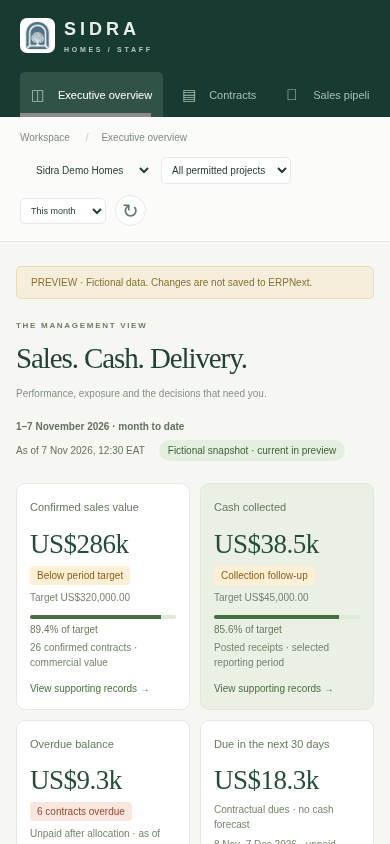
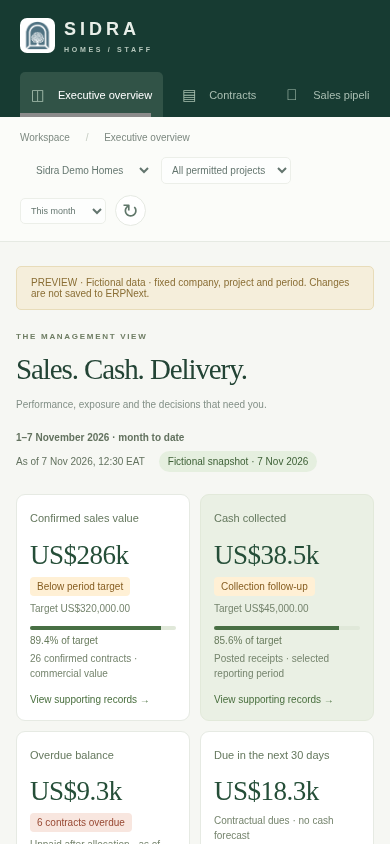
feat(staff): finish executive evidence and browser coverage

diff --git a/clients/staff/web/executive-demo.js b/clients/staff/web/executive-demo.js
@@ -1,31 +1,42 @@
 // Synthetic management snapshot; all totals and percentages are fixture values.
 const report = (path, columns, rows) => ({path, preview: {columns, rows}});
-const sales = report('/app/sidra-sale-contract?company=demo&status=Confirmed', ['Contract', 'Property', 'Agreed value'], [
-  ['EXT-DEMO-001', 'Demo Plot A-012', 'US$14,000.00'], ['EXT-DEMO-003', 'Demo Plot B-004', 'US$11,000.00'],
-]);
-const cash = report('/app/payment-entry?company=demo&docstatus=1', ['Receipt', 'Contract', 'Received'], [
-  ['DEMO-PAY-001', 'EXT-DEMO-001', 'US$1,250.00'], ['DEMO-PAY-002', 'EXT-DEMO-003', 'US$750.00'],
-]);
+const pad = value => String(value).padStart(3, '0');
+// Complete synthetic cohorts, not partial samples presented as reconciled totals.
+// Record generation here is fixture scaffolding, never live financial logic.
+const sales = report('/app/sidra-sale-contract?company=demo&status=Confirmed', ['Contract', 'Property', 'Agreed value'],
+  Array.from({length: 26}, (_, i) => [`EXT-DEMO-${101 + i}`, `Demo Plot C-${101 + i}`, 'US$11,000.00']));
+const cash = report('/app/payment-entry?company=demo&docstatus=1', ['Receipt', 'Contract', 'Received'],
+  Array.from({length: 26}, (_, i) => [`DEMO-PAY-${pad(i + 1)}`, `EXT-DEMO-${101 + i}`, ['US$1,250.00', 'US$750.00', 'US$2,000.00'][i] || 'US$1,500.00']));
 const aging = report('/app/query-report/Demo%20Contract%20Aging?company=demo', ['Contract', 'Age', 'Unpaid'], [
-  ['EXT-DEMO-004', '1–30 days', 'US$4,250.00'], ['EXT-DEMO-005', '31–60 days', 'US$3,000.00'],
+  ['EXT-DEMO-004', '1–30 days', 'US$4,250.00'], ['EXT-DEMO-005', '31–60 days', 'US$2,000.00'],
+  ['EXT-DEMO-006', '31–60 days', 'US$1,000.00'], ['EXT-DEMO-007', '61–90 days', 'US$1,250.00'],
+  ['EXT-DEMO-008', '61–90 days', 'US$250.00'], ['EXT-DEMO-009', '90+ days', 'US$500.00'],
 ]);
+const majorAccounts = report('/app/query-report/Demo%20Contract%20Aging?company=demo&management_review=1', aging.preview.columns,
+  [aging.preview.rows[0], ...aging.preview.rows.slice(3)]);
 const dues = report('/app/query-report/Demo%20Contract%20Dues?company=demo', ['Contract', 'Due date', 'Agreed due'], [
-  ['EXT-DEMO-001', '10 Nov 2026', 'US$1,250.00'], ['EXT-DEMO-002', '15 Nov 2026', 'US$2,500.00'],
+  ['EXT-DEMO-001', '10 Nov 2026', 'US$1,250.00'], ['EXT-DEMO-101', '15 Nov 2026', 'US$2,500.00'],
+  ['EXT-DEMO-003', '21 Nov 2026', 'US$750.00'], ['EXT-DEMO-102', '23 Nov 2026', 'US$3,500.00'],
+  ['EXT-DEMO-103', '25 Nov 2026', 'US$2,000.00'], ['EXT-DEMO-104', '28 Nov 2026', 'US$3,000.00'],
+  ['EXT-DEMO-105', '1 Dec 2026', 'US$2,750.00'], ['EXT-DEMO-106', '7 Dec 2026', 'US$2,500.00'],
 ]);
 const jobs = report('/app/sidra-construction-job?company=demo', ['Job', 'Schedule status', 'Milestone'], [
   ['Demo Villa 01', 'On schedule', 'Foundation inspection'], ['Demo House 02', 'At risk', 'Roofing review'],
+  ['Demo House 03', 'Delayed', 'Site recovery review'],
+  ...Array.from({length: 6}, (_, i) => [`Demo Villa ${i + 4}`, 'On schedule', 'Planned site review']),
 ]);
-const units = report('/app/sidra-unit?status=Available', ['Unit', 'Status', 'Asking price'], [
-  ['Demo Plot A-018', 'Available', 'US$11,000.00'], ['Demo Plot B-008', 'Available', 'US$11,000.00'],
-]);
-const reservations = report('/app/sidra-reservation?company=demo', ['Reservation', 'Plot', 'Owner'], [
-  ['DEMO-RES-003', 'Demo Plot C-003', 'Demo Sales Manager'],
-]);
+const unitNames = ['Demo Plot A-018', 'Demo Plot B-008', ...Array.from({length: 40}, (_, i) => `Demo Plot D-${pad(i + 1)}`)];
+const units = report('/app/sidra-unit?company=demo&status=Available', ['Unit', 'Status', 'Asking price'],
+  unitNames.map(name => [name, 'Available', 'US$11,000.00']));
+const inventoryAge = report('/app/query-report/Demo%20Inventory%20Age?company=demo', ['Unit', 'Days available'],
+  unitNames.map((name, i) => [name, String([45, 81][i] || 63)]));
+const reservations = report('/app/sidra-reservation?company=demo', ['Reservation', 'Plot', 'Owner'],
+  Array.from({length: 3}, (_, i) => [`DEMO-RES-${pad(i + 1)}`, `Demo Plot R-${pad(i + 1)}`, 'Demo Sales Manager']));
 
 export default {
   available: true,
   period_label: '1–7 November 2026 · month to date',
-  freshness: {status: 'fresh', label: 'Fictional snapshot · current in preview'},
+  freshness: {status: 'fresh', label: 'Fictional snapshot · 7 Nov 2026'},
   metrics: {
     sales_value: {available: true, value: '286000', target: '320000', attainment_percent: 89.4, status: 'attention', status_label: 'Below period target', detail: '26 confirmed contracts · commercial value', drilldown: sales},
     cash_collected: {available: true, value: '38500', target: '45000', attainment_percent: 85.6, status: 'attention', status_label: 'Collection follow-up', detail: 'Posted receipts · selected reporting period', drilldown: cash},
@@ -40,14 +51,14 @@ export default {
     {label: 'Oct', sales_value: '270000', received: '41250'}, {label: 'Nov*', sales_value: '286000', received: '38500'},
   ]},
   decisions: {available: true, total: 3, items: [
-    {id: 'DEMO-REVIEW-001', priority: 'critical', priority_label: 'Urgent collection', reference: 'EXT-DEMO-004', title: 'Agree a recovery plan for an overdue buyer', impact: {amount: '4250', description: 'unpaid contractual balance'}, owner: 'Demo Finance Lead', due_date: '2026-11-09', next_action: 'Review collection history and assign the next follow-up.', drilldown: report('/app/sidra-sale-contract/DEMO-SSC-004', ['Case', 'Owner', 'Next action'], [['EXT-DEMO-004', 'Demo Finance Lead', 'Review collection history and agree follow-up']])},
+    {id: 'DEMO-REVIEW-001', priority: 'critical', priority_label: 'Urgent collection', reference: 'EXT-DEMO-004', title: 'Agree a recovery plan for an overdue buyer', impact: {amount: '4250', description: 'unpaid contractual balance'}, owner: 'Demo Finance Lead', due_date: '2026-11-09', next_action: 'Review collection history and assign the next follow-up.', drilldown: report('/app/sidra-sale-contract/DEMO-SSC-004', ['Contract', 'Unpaid', 'Owner', 'Next action'], [['EXT-DEMO-004', 'US$4,250.00', 'Demo Finance Lead', 'Review collection history and assign the next follow-up.']])},
     {id: 'DEMO-REVIEW-002', priority: 'attention', priority_label: 'Delivery at risk', reference: 'DEMO-SITE-002', title: 'Resolve the roofing milestone resource gap', impact: {description: 'Completion date at risk · cost impact not yet quantified'}, owner: 'Demo Project Manager', due_date: '2026-11-08', next_action: 'Confirm the recovery programme and responsible site lead.', drilldown: report('/app/sidra-construction-job/DEMO-SITE-002', ['Job', 'Milestone', 'Review needed'], [['Demo House 02', 'Roofing review', 'Resource recovery programme']])},
     {id: 'DEMO-REVIEW-003', priority: 'attention', priority_label: 'Capacity held', reference: '3 reservations', title: 'Review reservations past their follow-up date', impact: {description: '3 plots remain reserved · no automatic release'}, owner: 'Demo Sales Manager', due_date: '2026-11-10', next_action: 'Check each reservation and recommend the next permitted action.', drilldown: reservations},
   ]},
   exposure: {available: true, items: [
     {label: 'Cancelled sales', available: true, value: 2, kind: 'count', detail: 'Selected period · commercial cancellations', drilldown: report('/app/sidra-sale-contract?status=Cancelled', ['Contract', 'Status'], [['EXT-DEMO-090', 'Cancelled'], ['EXT-DEMO-091', 'Cancelled']])},
     {label: 'Reservations needing review', available: true, value: 3, kind: 'count', detail: 'Past their agreed follow-up date', drilldown: reservations},
-    {label: 'Available inventory age', available: true, value: 63, kind: 'count', detail: 'Median days available · server-defined age basis', drilldown: report('/app/query-report/Demo%20Inventory%20Age?company=demo', ['Unit', 'Days available'], [['Demo Plot A-018', '45'], ['Demo Plot B-008', '81']])},
-    {label: 'Major overdue accounts', available: true, value: '6250', kind: 'money', detail: '4 accounts under management review', drilldown: aging},
+    {label: 'Available inventory age', available: true, value: 63, kind: 'count', detail: 'Median days available · server-defined age basis', drilldown: inventoryAge},
+    {label: 'Major overdue accounts', available: true, value: '6250', kind: 'money', detail: '4 accounts under management review', drilldown: majorAccounts},
   ]},
 };

diff --git a/clients/staff/web/executive.js b/clients/staff/web/executive.js
@@ -38,13 +38,13 @@ export function renderExecutive(data, {el, empty, preview}) {
   const currency = data?.currency || 'USD';
   const usable = executive?.available === true;
   const section = name => usable ? executive[name] : null;
-  const format = (value, kind = 'money') => value == null ? '—' : kind === 'money' ? compactMoney(value, currency) : String(value);
+  const format = (value, kind = 'money') => !numeric(value) ? '—' : kind === 'money' ? compactMoney(value, currency) : String(value);
   const stateClass = status => ['on_track', 'attention', 'critical'].includes(status) ? status : 'neutral';
 
   function openExample(drilldown, title) {
     const sample = drilldown.preview;
     $('evidence-title').textContent = title;
-    $('evidence-note').textContent = 'Fictional example selection. The live dashboard opens a permission-filtered ERPNext report.';
+    $('evidence-note').textContent = 'Complete fictional supporting cohort for this fixed preview. Live records require a permission-filtered ERPNext report.';
     $('evidence-body').replaceChildren(el('table', {}, [
       el('thead', {}, el('tr', {}, sample.columns.map(label => el('th', {}, label)))),
       el('tbody', {}, sample.rows.map(row => el('tr', {}, row.map(value => el('td', {}, value))))),
@@ -74,10 +74,10 @@ export function renderExecutive(data, {el, empty, preview}) {
         el('small', {class: 'target-caption'}, `${card.attainment_percent}% of target`));
       }
     }
-    if (card.available && card.id === 'available_units') children.push(el('div', {class: 'metric-sub'}, card.asking_value == null ? 'Asking value unavailable' : format(card.asking_value) + ' asking value'));
+    if (card.available && card.id === 'available_units') children.push(el('div', {class: 'metric-sub'}, !numeric(card.asking_value) ? 'Asking value unavailable' : format(card.asking_value) + ' asking value'));
     if (card.available && card.id === 'due_next_30_days') {
       const expected = card.expected_receipts;
-      children.push(el('div', {class: 'metric-sub'}, expected?.available && expected.value != null ? 'Expected receipts ' + format(expected.value) : 'Contractual dues · no cash forecast'));
+      children.push(el('div', {class: 'metric-sub'}, expected?.available === true && numeric(expected.value) ? 'Expected receipts ' + format(expected.value) : 'Contractual dues · no cash forecast'));
     }
     children.push(el('div', {class: 'metric-sub'}, card.available ? card.detail : card.reason));
     if (card.available && (preview && card.drilldown?.preview || reportPath(card.drilldown?.path))) children.push(el('span', {class: 'records-hint'}, 'View supporting records →'));
@@ -94,7 +94,7 @@ export function renderExecutive(data, {el, empty, preview}) {
 
   const trends = section('trends');
   $('trend-range').textContent = trends?.period_label || 'Monthly';
-  const months = trends?.available && Array.isArray(trends.months) ? trends.months : [];
+  const months = trends?.available === true && Array.isArray(trends.months) ? trends.months : [];
   const hasNumber = numeric;
   const hasTrend = months.some(month => hasNumber(month.sales_value) || hasNumber(month.received));
   if (!hasTrend) $('executive-trend').replaceChildren(empty(trends?.reason || 'Monthly sales and collection reporting is not connected.'));
@@ -105,13 +105,13 @@ export function renderExecutive(data, {el, empty, preview}) {
         hasNumber(month[key]) ? el('span', {class: 'trend-bar ' + style + (Number(month[key]) < 0 ? ' negative' : ''), style: `height:${Math.max(1, Math.abs(Number(month[key])) / scale * 138)}px`, title: `${month.label}: ${money(month[key], currency)}`}) : el('span', {class: 'trend-missing', title: 'Unavailable'}, '—'))), el('span', {class: 'trend-label'}, month.label)])));
     $('executive-trend').replaceChildren(chart, el('details', {class: 'trend-values'}, [el('summary', {}, 'View exact monthly values'),
       el('div', {class: 'table-wrap'}, el('table', {}, [el('thead', {}, el('tr', {}, ['Month', 'Confirmed sales', 'Cash collected'].map(label => el('th', {}, label)))),
-        el('tbody', {}, months.map(month => el('tr', {}, [month.label, money(month.sales_value, currency), money(month.received, currency)].map(value => el('td', {}, value)))))]))]));
+        el('tbody', {}, months.map(month => el('tr', {}, [month.label, numeric(month.sales_value) ? money(month.sales_value, currency) : '—', numeric(month.received) ? money(month.received, currency) : '—'].map(value => el('td', {}, value)))))]))]));
   }
 
   const decisions = section('decisions');
   $('decision-count').textContent = decisions?.available && decisions.total != null ? `${decisions.total} open` : 'Not connected';
   $('decision-list').replaceChildren(...(decisions?.available ? decisions.items?.length ? decisions.items.map(item => {
-    const impact = item.impact?.amount == null ? item.impact?.description || 'Impact not quantified' : money(item.impact.amount, item.impact.currency || currency) + ' · ' + item.impact.description;
+    const impact = !numeric(item.impact?.amount) ? item.impact?.description || 'Impact not quantified' : money(item.impact.amount, item.impact.currency || currency) + ' · ' + item.impact.description;
     return el('article', {class: 'decision-item'}, [
       el('div', {class: 'decision-heading'}, [el('span', {class: 'performance-state ' + stateClass(item.priority)}, item.priority_label || 'For review'), el('small', {}, item.reference)]),
       el('h3', {}, item.title), el('p', {class: 'decision-impact'}, impact),
@@ -124,7 +124,7 @@ export function renderExecutive(data, {el, empty, preview}) {
   const exposure = section('exposure');
   $('executive-exposure').replaceChildren(...(exposure?.available && exposure.items?.length ? exposure.items.map(item =>
     linked('article', {class: 'exposure-item'}, [el('small', {}, item.label),
-      el('strong', {}, item.available ? format(item.value, item.kind) : 'Unavailable'),
+      el('strong', {}, item.available === true && numeric(item.value) ? format(item.value, item.kind) : 'Unavailable'),
       el('p', {}, item.available ? item.detail : item.reason),
       ...(item.available && (preview && item.drilldown?.preview || reportPath(item.drilldown?.path)) ? [el('span', {class: 'records-hint'}, 'View records →')] : []),
     ], item.available ? item.drilldown : null, item.label)) : [empty(exposure?.reason || 'Cancellation, reservation and inventory-age exposure is not connected.')]));

diff --git a/clients/staff/web/demo.js b/clients/staff/web/demo.js
@@ -7,7 +7,7 @@ export default {
  payments:{available:true,received:'38500',overdue:'9250',collection_rate:82,overdue_contracts:6,aging:[{label:'1–30 days',amount:'4250'},{label:'31–60 days',amount:'3000'},{label:'61–90 days',amount:'1500'},{label:'90+ days',amount:'500'}]},
  jobs:{available:true,active:9,overdue_milestones:3,awaiting_inspection:2,completed:4,items:[{id:'DEMO-SITE-001',label:'Demo Villa 01',status:'In Progress',progress:45,next_milestone:'Foundation inspection',due_date:'2026-11-12'},{id:'DEMO-SITE-002',label:'Demo House 02',status:'In Progress',progress:70,next_milestone:'Roofing review',due_date:'2026-11-09'}]},
  property:{total:80,counts:[{status:'Available',count:42},{status:'Reserved',count:8},{status:'Under Contract',count:26},{status:'Blocked',count:4}]},
- schedule:{buckets:[{label:'Nov',amount:'12750'},{label:'Dec',amount:'18500'},{label:'Jan',amount:'14250'},{label:'Feb',amount:'21000'},{label:'Mar',amount:'16500'},{label:'Apr',amount:'19750'}],upcoming:[{contract_id:'DEMO-SSC-001',customer_display:'Demo Buyer A',external_reference:'EXT-DEMO-001',due_date:'2026-11-10',amount:'1250',currency:'USD',row_type:'Installment'},{contract_id:'DEMO-SSC-002',customer_display:'Demo Buyer B',external_reference:'EXT-DEMO-002',due_date:'2026-11-15',amount:'2500',currency:'USD',row_type:'Installment'},{contract_id:'DEMO-SSC-003',customer_display:'Demo Buyer C',external_reference:'EXT-DEMO-003',due_date:'2026-11-21',amount:'750',currency:'USD',row_type:'Installment'}]},
+ schedule:{buckets:[{label:'Nov',amount:'12750'},{label:'Dec',amount:'18500'},{label:'Jan',amount:'14250'},{label:'Feb',amount:'21000'},{label:'Mar',amount:'16500'},{label:'Apr',amount:'19750'}],upcoming:[{contract_id:'DEMO-SSC-001',customer_display:'Demo Buyer A',external_reference:'EXT-DEMO-001',due_date:'2026-11-10',amount:'1250',currency:'USD',row_type:'Installment'},{contract_id:'DEMO-SSC-101',customer_display:'Demo Buyer 101',external_reference:'EXT-DEMO-101',due_date:'2026-11-15',amount:'2500',currency:'USD',row_type:'Installment'},{contract_id:'DEMO-SSC-003',customer_display:'Demo Buyer C',external_reference:'EXT-DEMO-003',due_date:'2026-11-21',amount:'750',currency:'USD',row_type:'Installment'}]},
  contracts:[{id:'DEMO-SSC-001',reference:'EXT-DEMO-001',customer_display:'Demo Buyer A',unit_label:'Demo Plot A-012',status:'Confirmed',value:'14000',currency:'USD',signed_on:'2026-10-10'},{id:'DEMO-SSC-002',reference:'EXT-DEMO-002',customer_display:'Demo Buyer B',unit_label:'Demo Plot A-018',status:'Draft',value:'9000',currency:'USD',signed_on:'2026-11-02'},{id:'DEMO-SSC-003',reference:'EXT-DEMO-003',customer_display:'Demo Buyer C',unit_label:'Demo Plot B-004',status:'Confirmed',value:'11000',currency:'USD',signed_on:'2026-10-29'}],
  locations:[{doctype:'Sidra Unit',name:'DEMO-PLOT-A012',can_write:true,label:'Demo Plot A-012',area:'Demo East Masalaha',status:'Under Contract',latitude:9.536,longitude:44.071,modified:'2026-11-01T10:00:00Z'},{doctype:'Sidra Unit',name:'DEMO-PLOT-A018',can_write:true,label:'Demo Plot A-018',area:'Demo East Masalaha',status:'Available',latitude:null,longitude:null,modified:'2026-11-02T10:00:00Z'},{doctype:'Sidra Construction Job',name:'DEMO-SITE-001',can_write:true,label:'Demo construction site',area:'Demo Hargeisa',status:'In Progress',latitude:9.548,longitude:44.058,modified:'2026-11-03T10:00:00Z'}]
 };

diff --git a/clients/staff/web/index.html b/clients/staff/web/index.html
@@ -1,7 +1,7 @@
 <!doctype html><html lang="en"><head><meta charset="utf-8"><meta name="viewport" content="width=device-width,initial-scale=1,viewport-fit=cover"><meta name="theme-color" content="#173b32"><title>Sidra Homes · Staff</title><link rel="stylesheet" href="./styles.css"></head><body>
 <aside class="sidebar"><a class="brand" href="./"><img class="brand-icon" src="./sidra-icon.png" alt=""><span>SIDRA<span class="brand-sub">HOMES / STAFF</span></span></a><span class="nav-label">WORKSPACE</span><nav aria-label="Main navigation"><button class="nav active" data-view="overview"><span>◫</span> Executive overview</button><button class="nav" data-view="contracts"><span>▤</span> Contracts</button><button class="nav" data-view="sales"><span>↗</span> Sales pipeline</button><button class="nav" data-view="payments"><span>◉</span> Payments</button><button class="nav" data-view="jobs"><span>▥</span> Construction jobs</button><button class="nav" data-view="schedule"><span>▦</span> Installment schedule</button><button class="nav" data-view="locations"><span>⌖</span> Plots & site locations</button></nav><div class="sidebar-bottom"><span class="live-dot"></span><span id="connection">Connecting to server</span><div class="account"><span class="avatar">SH</span><div>Sidra staff<small id="role">Staff workspace</small></div></div></div></aside>
 <div class="workspace"><header class="topbar"><span id="breadcrumb">Workspace <span>/</span> Executive overview</span><div class="top-actions"><label class="company-label"><span class="sr-only">Company</span><select id="company" aria-label="Company"><option value="">Loading company…</option></select></label><label><span class="sr-only">Project</span><select id="project" aria-label="Project" disabled><option value="">All permitted projects</option></select></label><label><span class="sr-only">Reporting period</span><select id="period" aria-label="Reporting period"><option value="this_month">This month</option><option value="last_30_days">Last 30 days</option><option value="last_90_days">Last 90 days</option></select></label><a id="signin" href="/login?redirect-to=%2Fsidra-staff%2F" class="text-button">Sign in</a><button id="signout" class="text-button" hidden>Sign out</button><button id="refresh" class="icon-button" aria-label="Refresh dashboard">↻</button></div></header><main>
-<div id="demo-banner" class="demo-banner" hidden>PREVIEW · Fictional data. Changes are not saved to ERPNext.</div><div id="alert" role="status" class="alert" hidden></div>
+<div id="demo-banner" class="demo-banner" hidden>PREVIEW · Fictional data · fixed company, project and period. Changes are not saved to ERPNext.</div><div id="alert" role="status" class="alert" hidden></div>
 <div class="page-heading"><div><p class="eyebrow" id="eyebrow">THE MANAGEMENT VIEW</p><h1 id="page-title">Sales. Cash. Delivery.</h1><p class="subtitle" id="subtitle">Performance, exposure and the decisions that need you.</p></div><div class="date-block"><span id="today"></span><small id="updated">Awaiting server data</small></div></div>
 <section id="view-overview" class="view">
   <div class="snapshot-strip" aria-live="polite"><span id="reporting-range">Awaiting executive reporting</span><span id="snapshot-date">No server snapshot</span><span id="freshness" class="freshness unknown">Freshness not established</span></div>

diff --git a/clients/staff/web/app.js b/clients/staff/web/app.js
@@ -48,7 +48,8 @@ function render() {
  $('company').replaceChildren(...data.companies.map(c=>el('option',{value:c.id,selected:c.id===data.scope.company_id},c.name)));
  const projects = data.projects || [];
  $('project').replaceChildren(el('option',{value:''},'All permitted projects'),...projects.map(p=>el('option',{value:p.id,selected:p.id===data.scope.project_id},p.name)));
- $('project').disabled=!projects.length;
+ $('company').disabled=preview;$('period').disabled=preview;
+ $('project').disabled=preview||!projects.length;
  renderExecutive(data,{el,empty,preview});
  renderContracts();
  $('upcoming').replaceChildren(table(['Contract / buyer','Due date','Type','Agreed amount'],data.schedule.upcoming.map(r=>[el('div',{},[record('Sidra Sale Contract',r.contract_id,r.external_reference||r.contract_id),el('small',{},r.customer_display)]),date(r.due_date),r.row_type,money(r.amount,r.currency)])));
@@ -102,6 +103,7 @@ function showLocation(item) {
 async function load() {
  const generation=++loadGeneration;
  const company=$('company').value||null, project=$('project').value||null;
+ $('evidence-dialog').close();$('evidence-body').replaceChildren();
  aborter?.abort();aborter=new AbortController();$('refresh').disabled=true;$('project').disabled=true;message('');data=null;
  $('connection').textContent='Connecting to server';$('updated').textContent='Awaiting server data';
  for(const id of ['contracts-table','upcoming','locations','sales-metrics','pipeline','payment-metrics','aging','job-metrics','jobs-table']) $(id).replaceChildren();
@@ -109,13 +111,13 @@ async function load() {
  renderExecutive(null,{el,empty,preview});
  try {
   let result;
-  if(preview){result=structuredClone((await import('./demo.js')).default);result.scope.project_id=project;$('demo-banner').hidden=false;}
+  if(preview){result=structuredClone((await import('./demo.js')).default);$('demo-banner').hidden=false;}
   else result=await request(config.dashboardMethod,{period:$('period').value,company,project},{signal:aborter.signal});
   if(generation!==loadGeneration)return;
   data=requireDashboard(result);selectedLocation=null;$('location-detail').replaceChildren(empty('Select a plot or construction site to view its saved location.'));render();
  }catch(error){
   if(error.name==='AbortError'||generation!==loadGeneration)return;
-  data=null;$('connection').textContent='Server not connected';message(error.message+' Demo preview is available separately at ?demo=1.');
+  data=null;$('signin').hidden=false;$('signout').hidden=true;$('role').textContent='Staff workspace';$('connection').textContent='Server not connected';message(error.message+' Demo preview is available separately at ?demo=1.');
   renderExecutive(null,{el,empty,preview});
  }finally{if(generation===loadGeneration)$('refresh').disabled=false;}
 }

diff --git a/clients/staff/docs/EXECUTIVE-API_v0.1.md b/clients/staff/docs/EXECUTIVE-API_v0.1.md
@@ -1,0 +1,53 @@
+# Executive dashboard API v0.1
+
+7 Nov 2026. Backend/test server: Claude. Shared web and Android/macOS clients: Codex. Integration proposal for the existing dashboard endpoint; no backend implementation or approved accounting-policy change is supplied here.
+
+## Request and scope
+
+Extend `GET /api/method/sidra_realestate.api.staff_dashboard.get_dashboard` from [API-CONTRACT.md](API-CONTRACT.md). Keep `schema_version:1` and the existing operational payload. Add the optional `executive` object described below. Older payloads render all six executive cards as unavailable; the client never reconstructs them from `summary`, schedules or contracts.
+
+Parameters: `company` (optional on first load), `project` (optional, omitted for all permitted projects), and `period` (`this_month`, `last_30_days`, `last_90_days`). Resolve dates in Africa/Mogadishu. Return `scope.company_id`, `scope.company_name`, `scope.project_id` (null for all), and `scope.role_label`; `companies:[{id,name}]` and `projects:[{id,name}]` contain only permitted choices for the selected company. Company changes clear the project before requesting a fresh snapshot. The server must reject unauthorized companies/projects and unsupported project associations; do not silently treat them as unrestricted queries. Define the relationship between property schemes, contracts and ERPNext Projects on the server before enabling a project choice. A project scope must apply consistently to every section or explicitly mark unsupported sections unavailable.
+
+Authorize the staff session and management reporting capability on the server. A role label is display text, never permission evidence. Use existing roles and Company User Permissions; do not add a CEO/GM authorization bypass. Deny the whole request with 401/403 where appropriate, or omit executive data/use `{available:false,reason:"Management access required"}` when operational data remains readable. Do not send restricted executive values to a user who lacks permission. Apply parent/record/report permissions on each drilldown too.
+
+## Executive payload
+
+Return `executive:{available:true,period_label,freshness,metrics,trends,decisions,exposure}` inside the Frappe `message` envelope. All totals, target attainment, statuses, age/schedule cohorts, decisions, impacts and permissions are supplied by the server. Decimal monetary strings preserve source precision. The client only formats numbers and scales chart bars. Return one company/currency scope; no client FX conversion. Null/missing/unusable values are not zero. Each group or metric can instead be `{available:false,reason}`. A real zero uses `{available:true,value:"0"}`.
+
+`freshness:{status:"fresh"|"stale"|"unknown",label}` describes source completeness and age, not the time a browser refreshed. Top-level `as_of` is an ISO timestamp with timezone. Include dates, the relevant stale/missing source and any lag in the label; the client does not invent a freshness threshold. If any required source is unavailable, do not present its dependent metric as current or complete.
+
+`metrics` is keyed by the following six IDs. Common fields: `available`, `value`, `detail`, optional `status` (`on_track`, `attention`, `critical`), `status_label`, `reason`, `drilldown`.
+
+| ID | Value and additional fields | Server source / definition boundary |
+| --- | --- | --- |
+| `sales_value` | Agreed commercial sales value; optional `target`, `attainment_percent` | Eligible confirmed Sidra Sale Contracts in the selected period; define/expose the date/status basis. Target must be approved for the same scope, currency and period. Never label sales value as recognized revenue. |
+| `cash_collected` | Posted receipts; optional `target`, `attainment_percent` | Native ERPNext Payment Entry and authoritative allocation. Finance must define gross/net treatment of refunds/reversals and project attribution. Schedule rows and captured down-payment obligations are not receipts. |
+| `overdue_balance` | Unpaid overdue contractual obligations as of snapshot | Requires authoritative settlements, allocations and permitted adjustments. Return unavailable until these exist. Explain the arrears date/cohort basis in detail/report. This is not automatically posted accounting AR. |
+| `due_next_30_days` | Unpaid contractual dues in the upcoming 30-day window | Supply exact window dates in `detail` (preview uses 8 Nov–7 Dec inclusive). Optional `expected_receipts:{available,value?,reason?}` is a separate approved forecast; omit/mark unavailable until one exists. Do not equate contractual dues with expected cash. |
+| `projects_on_schedule` | Number of eligible active jobs on schedule | Existing Sidra Construction Job / linked ERPNext Project, approved baseline and milestone evidence. Supply the denominator and exceptions in `detail`/`status_label`. No invented progress, schedule baseline, inspection or cost. |
+| `available_units` | Available-unit count; optional `asking_value` | Permission-filtered Sidra Units and effective asking prices. Asking value is not asset cost, margin or revenue. Unknown/incomplete pricing means asking value unavailable. |
+
+Targets can be null/unset while actuals are available. Only include `attainment_percent` as a finite JSON number when the matching target/denominator is meaningful. The server owns thresholds and period comparisons; the browser does not divide actuals by targets.
+
+`trends:{available,period_label,months:[{label,sales_value,received}],reason?}` supplies ordered monthly aggregates with the same definitions as sales/collections. Identify a partial current month in the label/range. A missing series value renders as a dash, including in the exact-value table; a verified zero renders as zero. Do not replace missing historical integration with zero. Define the trend horizon and selected-period relationship on the server.
+
+`decisions:{available,total,items,reason?}`: each item is `{id,reference,title,priority,priority_label,impact:{amount?,currency?,description},owner,due_date,next_action,drilldown}`. Dates are ISO `YYYY-MM-DD`; owner, deadline and next action may be absent and render as unassigned/unset. Priorities use the status enum above. `total` counts open cases in the same scope; document any result limit in the payload text. Return only existing permission-filtered cases, never simulated approvals or automatic cancellation/release actions. Impact may be narrative when not quantifiable. Do not guess amounts or sum overlapping risks. Supporting reports must identify the case and its actual source records.
+
+`exposure:{available,items,reason?}`: each item is `{label,available,value,kind:"money"|"count",detail,reason?,drilldown}`. The preview illustrates cancelled contracts, reservations past follow-up, available inventory age and a management-review subset of overdue accounts. Supply the actual cohort/age basis in `detail` and supporting report. Management-review accounts are a subset, not the full aging balance. This is read-only reporting, with no new cancellation, release, posting, penalty, refund or title-transfer behavior.
+
+## Supporting records
+
+`drilldown:{path}` is a server-created same-origin `/app/` URL pointing to a native record/list or query report. Accepted routes are `query-report/<report>` and `sidra-sale-contract`, `sidra-unit`, `sidra-construction-job`, `sidra-reservation`, `payment-entry`, `lead`, `opportunity` (optionally a record ID). Other routes are rendered without a link. URL-encode names and query values. Include the exact company/project/period/as-of/status/cohort filters needed to reconcile the displayed figure. The browser retains these filters; the destination must independently enforce permissions. A filtered list is not a substitute for report authorization. Do not supply a link until the report exists.
+
+`drilldown.preview:{columns,rows}` exists only in the explicitly requested `?demo=1` fixture. Live mode ignores it. Fictional reports are not installed ERPNext reports. Preview filters are disabled because its snapshot is fixed; supporting cohorts reconcile to the displayed fixture totals. Small operational registers in the preview are illustrative extracts, not full executive cohorts.
+
+## Required integration evidence from Claude
+
+- Allowed/denied staff and management accounts; Company/project membership and cross-company rejection, including direct report URLs and source documents.
+- Reconcile each available card and month to persisted records with identical scope and snapshot basis. Exercise zero, partial and advance receipts, allocations, cancelled/reversed vouchers and missing Finance integration using approved Finance rules.
+- Approved target source, missing target, zero target, partial periods, currency isolation, overdue cutoffs, exact next-30-day boundaries and Africa/Mogadishu month changes.
+- Existing job baselines/milestones, missing schedule data, unavailable costs/asking prices, decision ownership/deadlines and overlapping exposure subsets.
+- Fresh/stale/unknown source states; expired sessions, CSRF, no-store authenticated responses and actual report installation.
+- Serve `/sidra-staff/` at the forthcoming HTTPS origin, inject CSRF, and test browser/Android/macOS sessions, navigation and protected downloads on actual devices.
+
+Local automated browser tests use an in-browser API fixture to verify UI behavior and outbound filters. They do not prove any of the above Frappe integrations or permission enforcement.

diff --git a/clients/staff/docs/CLAUDE-HANDOVER.md b/clients/staff/docs/CLAUDE-HANDOVER.md
@@ -13,3 +13,15 @@ Verified here: Android debug assembly/lint and macOS release compilation/ad-hoc 
 Not verified: live Frappe/API/session/Company integration, GPS on actual devices, final universal macOS build (CI pending at this edit), distribution signing/notarization, exact installed app size. The current Linux environment has no Android SDK/Gradle or macOS toolchain and very little free disk. CI definitions are included to build on the appropriate runners. No test-server endpoint has been invented, no existing backend files were edited, and no data was posted to the ERP.
 
 Next: agree the aggregate endpoint/cohort definitions; install and test the location adapter on your test server; provide HTTPS URL; complete platform/device acceptance and test login/logout, CSRF, uploads, protected downloads, expired sessions, map links and GPS. Review the source before any production release.
+
+## Executive overview continuation v0.1 — 7 Nov 2026
+
+Resumed `feature/staff-executive-overview` from `733d0c7b09b1a4e778ff0d8c97f5655a4098229b`; retained its implementation. Six executive headlines, monthly sales/collection chart with exact values, decision impact/owner/deadline/next action/supporting records, exposure, company/project/period filters and server freshness are present in the shared web UI used by both native shells.
+
+Read [Executive API v0.1](EXECUTIVE-API_v0.1.md) before implementing the aggregate endpoint. This is the requested executive integration handover for Claude: exact fields, report routes, scope rules, source boundaries, unavailable states and required live acceptance evidence. Calculations, management permissions, cohort selection and decisions remain on your server. No executive backend, business rule, migration or record changes were made. HTTPS server URL is still not ready.
+
+Corrected fictional evidence: complete headline cohorts now reconcile to $286,000 sales, $38,500 collections, $9,250 overdue across 6 contracts, $18,250 upcoming dues, 7 of 9 jobs on schedule and 42 available units asking $462,000. Major overdue management review is a distinct 4-account/$6,250 subset. Reservation review has 3 records; inventory median age uses all 42 units. A draft contract is no longer shown as supporting a live due obligation. The fictional operational registers remain illustrative extracts. Preview filters are disabled and labelled as a fixed snapshot, so a selection never suggests that unchanged demo totals were filtered.
+
+Verified locally on Linux/Node 24: 16 Node tests (`node --test --test-isolation=none tests/*.test.mjs`), `npm test`, `npm run check`, 12 existing Python geometry/location boundary tests, and `node tools/browser-smoke.mjs` in Chromium. Browser checks cover six cards and complete preview evidence, monthly values, decisions/exposure, live-route API fixtures for company/project/period requests and report filters, missing executive integration, zero versus missing optional values, stale freshness, restricted management payloads, a 403 response, out-of-order responses and no demo fallback. Desktop 1440px and mobile 390px/320px layouts pass overflow checks, including the exact-values table; overview screenshots were refreshed. Local API fixtures are explicitly test-only and do not implement or prove server permissions. The preview server and Chromium required execution outside the command sandbox to open local ports.
+
+Pending: actual Frappe executive endpoint/report installation and reconciliation, session and Company/project permission integration, approved targets/Finance definitions, source freshness, missing-source handling and device acceptance on Android/macOS. No native source changed, so native builds were not repeated locally; appropriate platform CI remains required. Do not interpret the browser fixtures or the pre-existing Python stubs as live ERPNext acceptance. Do not substitute schedule values for receipts/arrears or asking prices for carrying value. Continue to preserve existing records and concurrent backend work.

diff --git a/clients/staff/README.md b/clients/staff/README.md
@@ -19,7 +19,7 @@ node tools/browser-smoke.mjs
 
 `?demo=1` is explicitly labelled fictional. Pins edited in preview are in-memory only. Without that parameter the page requests the live same-origin backend and shows failures honestly. The app keeps no local financial database and no offline private-data cache.
 
-The screens cover Sales/lead pipeline, posted Payments and overdue aging, existing Construction Job KPIs, contracts, scheduled installments, and shared plot/site locations. KPI definitions and permission rules are in [the API contract](docs/API-CONTRACT.md). Nothing calculates penalties, refunds, revenue recognition or title obligations on the client.
+The executive overview covers six headline cards, server-supplied targets, monthly sales/collections, management decisions with supporting records, business exposure, scope filters and freshness. Preview filters are fixed and disabled; live filters request new server snapshots. The screens also cover Sales/lead pipeline, posted Payments and overdue aging, existing Construction Job KPIs, contracts, scheduled installments, and shared plot/site locations. KPI definitions and permission rules are in [the API contract](docs/API-CONTRACT.md) and [executive API v0.1](docs/EXECUTIVE-API_v0.1.md). Nothing calculates penalties, refunds, revenue recognition or title obligations on the client.
 
 ## Native apps
 

diff --git a/clients/staff/docs/API-CONTRACT.md b/clients/staff/docs/API-CONTRACT.md
@@ -39,6 +39,10 @@ Unavailable groups must use `available:false` and a clear `reason`. Missing acco
 - Overdue: unpaid due obligations after authoritative payment allocation and permitted adjustments; age in 1–30, 31–60, 61–90, 90+ day buckets. The schedule alone cannot establish unpaid balances.
 - Construction: existing jobs, milestones and inspection records only. Return unavailable where the actual workflow/data does not exist. No invented completion %, certifications, costs or margins. Margin KPIs wait for reliable actual costs and commitments.
 
+## Executive overview extension
+
+See [Executive dashboard API v0.1](EXECUTIVE-API_v0.1.md) for the optional `executive` response, project scope, six headline cards, monthly series, decisions, exposure, freshness and permission-filtered supporting reports. Backend implementation and HTTPS integration remain pending with Claude.
+
 ## Plot and site location API
 
 The isolated implementation is in `integration/frappe/sidra_realestate/api/`. Integrate those files into the app after backend review. Existing site `gps` text is read conservatively and preserved. A dedicated native Frappe Geolocation Custom Field `sidra_location` holds a single GeoJSON point; it is not a parcel survey or legal boundary.

diff --git a/clients/staff/CHANGELOG.md b/clients/staff/CHANGELOG.md
@@ -1,3 +1,5 @@
 # Staff clients v0.1.0
 
 7 Nov 2026: initial staff web dashboard, Android/macOS platform WebView shells, isolated plot/site location adapter, synthetic preview and scoped checks. Live backend integration and device acceptance remain pending.
+
+7 Nov 2026: finish the checkpointed CEO/GM overview; reconcile complete fictional supporting cohorts and management-review subsets, keep fixed preview filters explicit, preserve unavailable optional values, clear prior scope evidence, and add executive browser tests for filters, denied/missing/stale data and out-of-order requests. Executive API v0.1 documents Claude's pending server integration.
